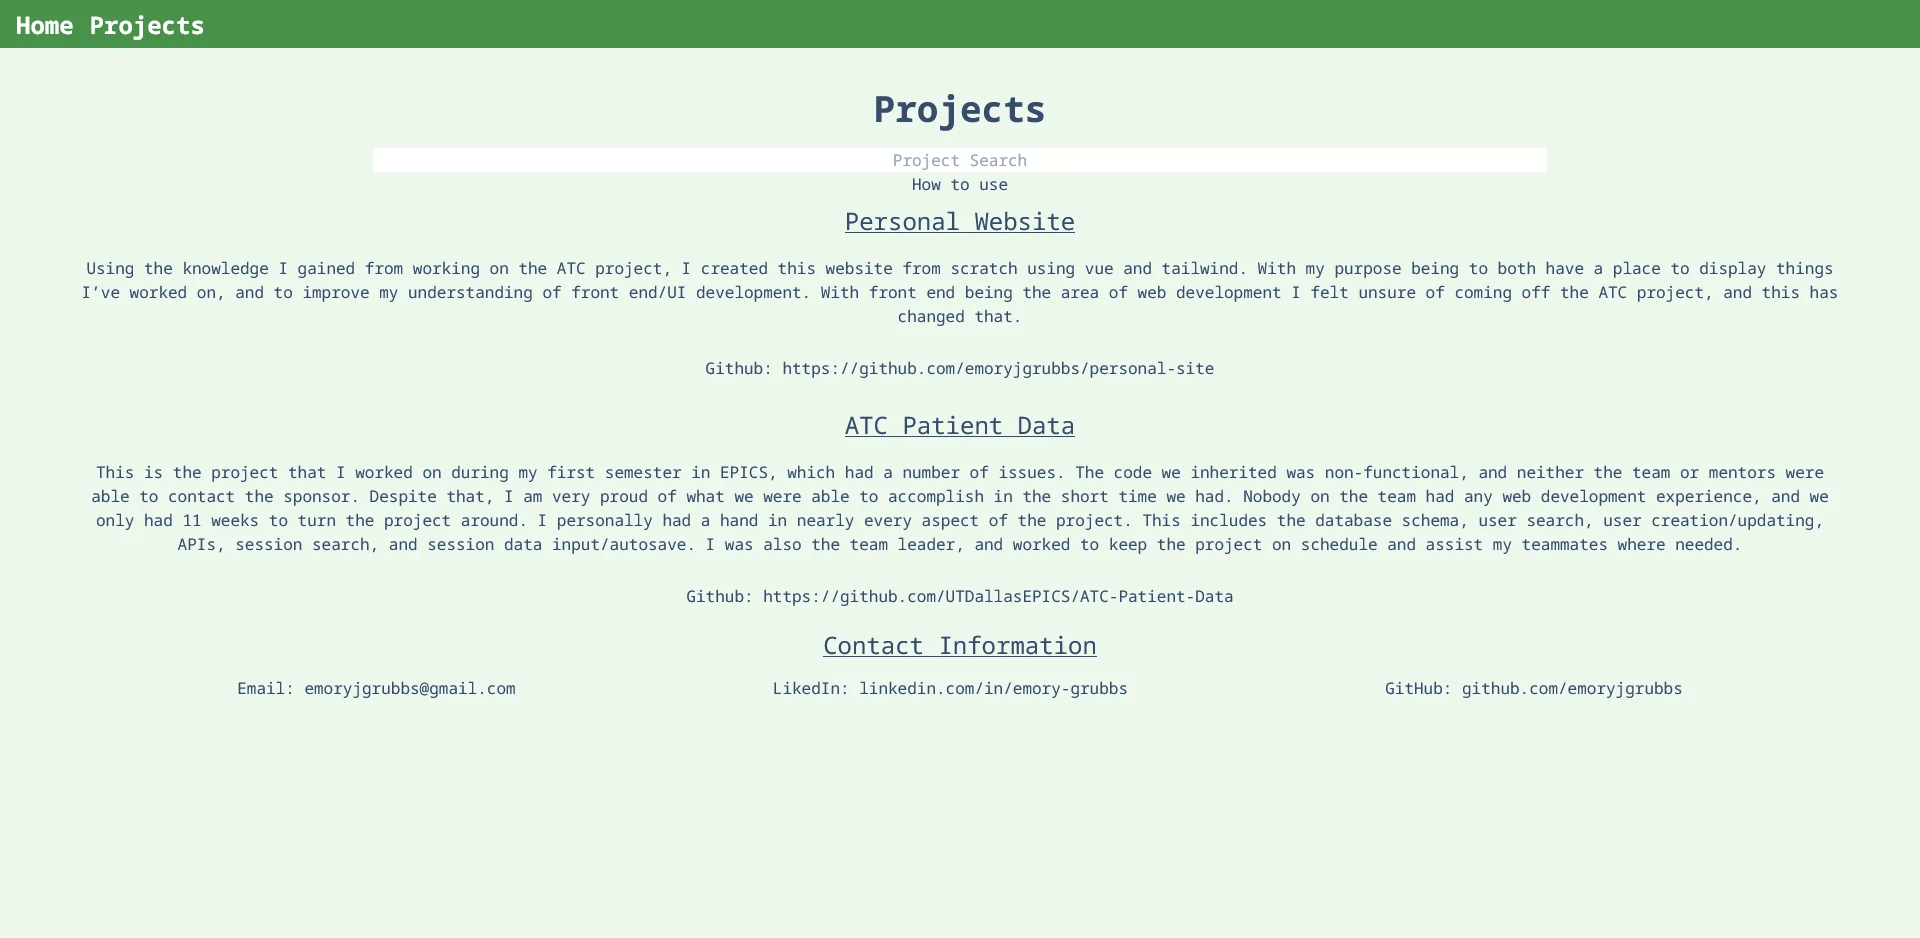
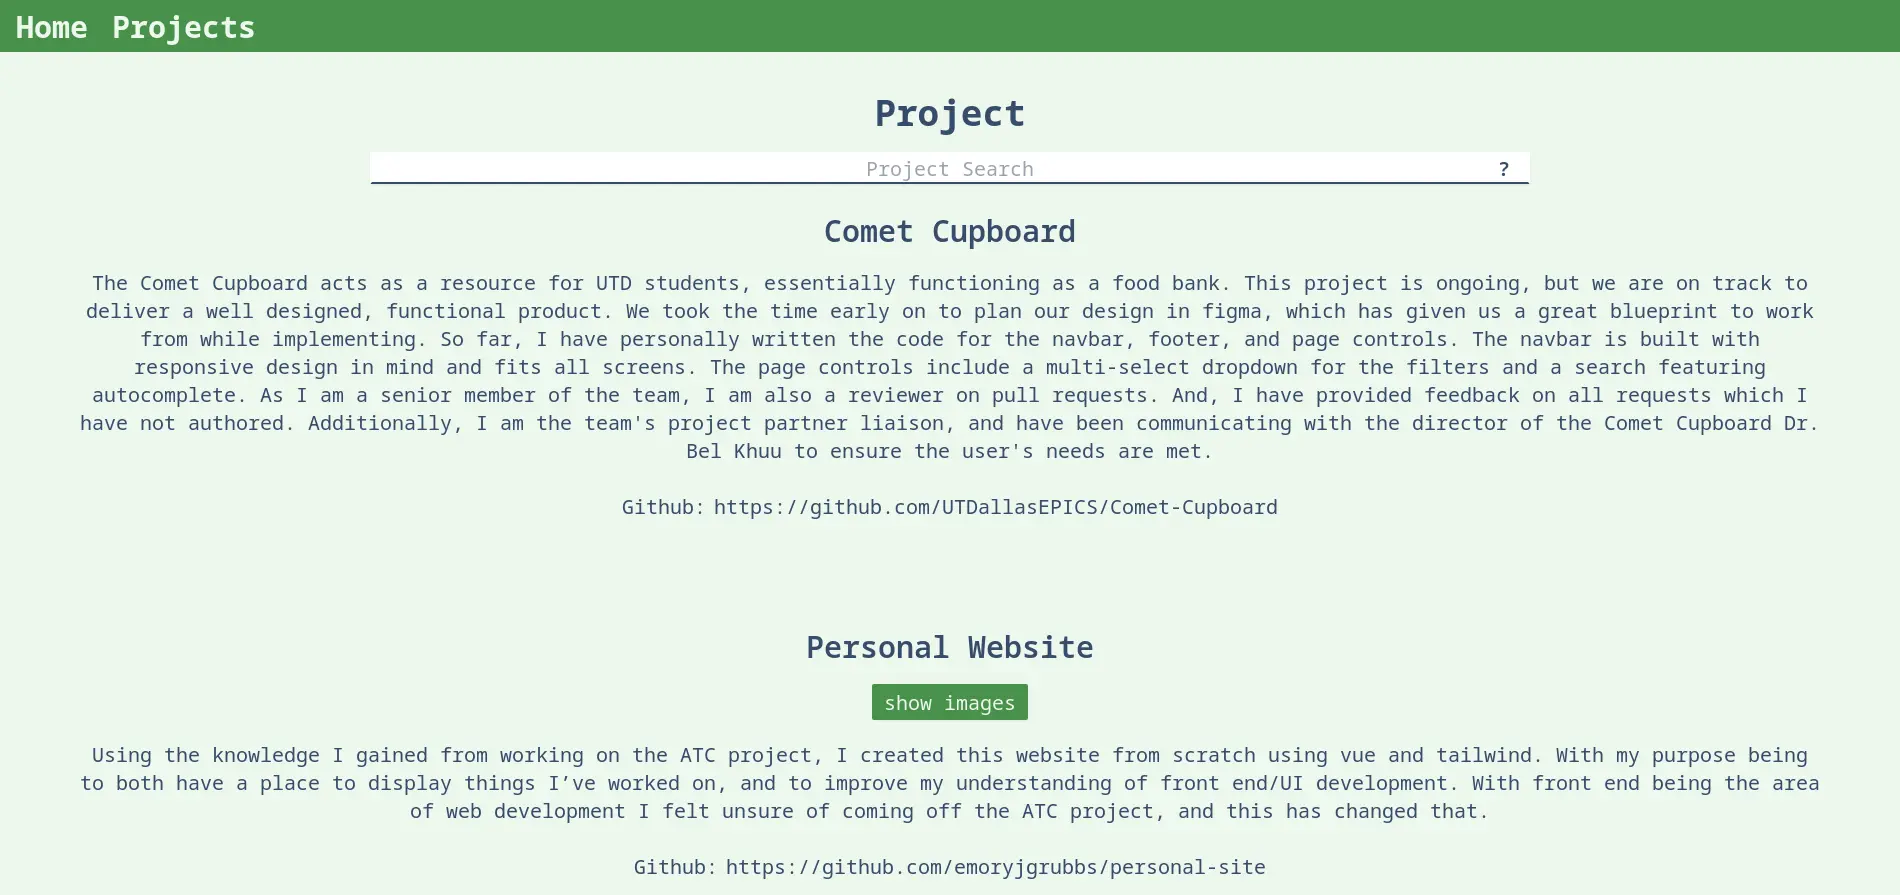
updated images + made nuxtpage content grow to fill screen

diff --git a/app.vue b/app.vue
@@ -1,12 +1,10 @@
 <template>
-    <div class="overscroll-none bg-lg text-text-dark font-body selection:bg-lg selection:text-text-dark">
-        <Navbar />
-    </div>
-    <body class="overscroll-none bg-lg text-text-dark text-xl font-body selection:bg-dg selection:text-white">
-        <NuxtPage />
-    </body>
-    <!--second div prevents double contact info on projects-->
-    <div class="overscroll-none bg-dg text-text-light font-body selection:bg-lg selection:text-text-dark">
-        <ContactInfo />
+    <div class="flex flex-col min-h-screen font-body">
+        <Navbar class="selection:bg-lg selection:text-text-dark"/>
+        <div class="grow bg-lg text-text-dark text-xl selection:bg-dg selection:text-white">
+            <NuxtPage />
+        </div>
+        <!--second div prevents double contact info on projects-->
+        <ContactInfo class="bg-dg text-text-light text-xl selection:bg-lg selection:text-text-dark"/>
     </div>
 </template>
